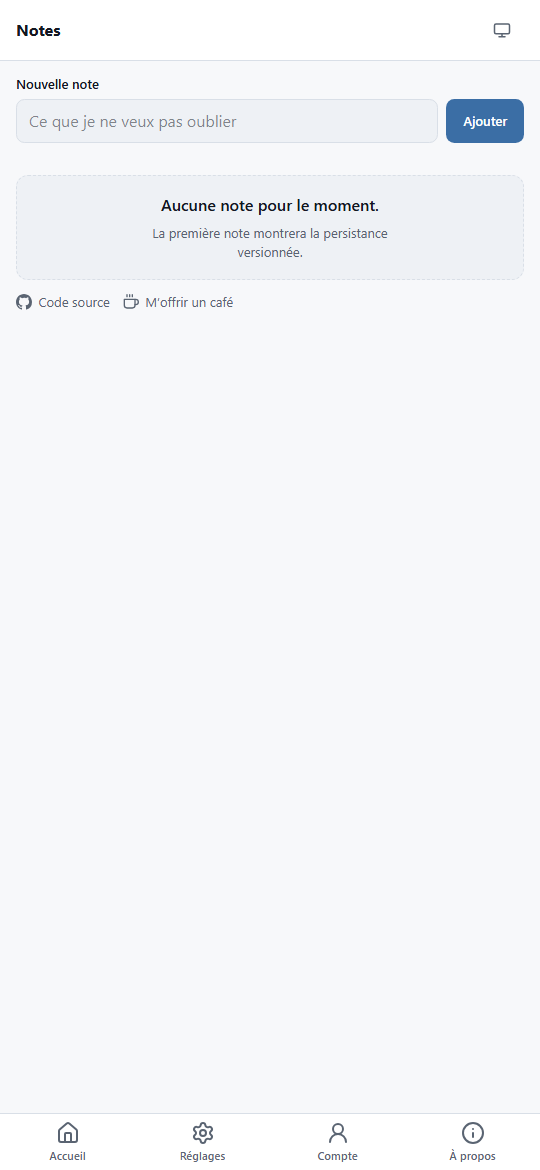
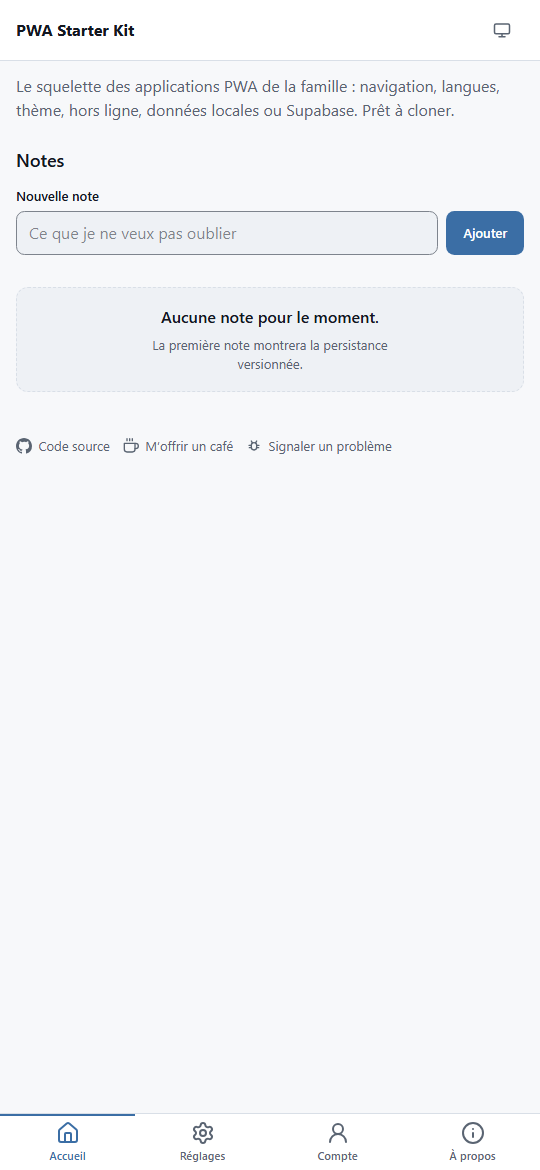
fix: ce que le squelette promettait sans le faire (Sentry, thème au démarrage, base du worker, toasts) (#122)
* fix(observabilite): Sentry part enfin, dans un morceau à part

initSentry était appelé sans `loader`, et @sentry/react n'était pas déclaré. Le socle
importe alors le SDK par un nom que Vite ne peut pas lire : dans le navigateur
l'import échoue, l'échec est avalé, et rien ne part, DSN posé ou non. Le déploiement,
la CSP et l'écran Réglages annonçaient pourtant un Sentry en service, et l'ADR 0006
promettait le relais « sans changer une ligne ».

- @sentry/react ^11.10.0, la version du parc (verrou seul, 8 paquets ajoutés).
- `loader: () => import('@sentry/react')` dans main.tsx.
- Les trois gestes promus par le socle dans vite.config.ts : nom fixe
  (sentryChunkFileNames), hors des préchargements (withoutSentryPreload), React
  dans son propre morceau (sentryChunkGroups), sinon il part dans sentry.js, que le
  précache exclut, et l'app ne démarre plus hors ligne.
- Bornes de poids reposées à +10 % du relevé : 418,9 / 169,1 / 497 →
  461 / 187 / 547. Le total compte désormais le SDK (146,8 kB, chargé seulement
  avec un DSN) ; le préchargé ne prend que 0,9 kB (React et le runtime à part).
- L'ADR 0006 dit la rectification.

Éprouvé au navigateur avec un DSN de test : sentry.js chargé, une erreur part en
enveloppe vers l'hôte du DSN sans refus de la CSP ; serveur coupé, l'app démarre
depuis le précache et Sentry ne se charge simplement pas.

* fix(theme): le script anti-flash qu'index.html disait posé
[…]

diff --git a/vite.config.ts b/vite.config.ts
@@ -3,7 +3,12 @@ import { VitePWA } from 'vite-plugin-pwa';
 import react from '@vitejs/plugin-react';
 import tailwindcss from '@tailwindcss/vite';
 import { visualizer } from 'rollup-plugin-visualizer';
-import { pwaBaseOptions } from '@mister-guiiug/dev-pwa-config/vite-pwa';
+import {
+  pwaBaseOptions,
+  sentryChunkFileNames,
+  sentryChunkGroups,
+  withoutSentryPreload,
+} from '@mister-guiiug/dev-pwa-config/vite-pwa';
 import {
   pwaSeoPlugin,
   spaFallbackPlugin,
@@ -49,7 +54,23 @@ export default defineConfig(({ command }) => {
     // `strictPort` : un port pris fait échouer le démarrage, au lieu de glisser
     // en silence vers un autre que `.claude/launch.json` ne connaît pas.
     server: { port: devPortOf(APP_ID, 5240), strictPort: true },
-    build: { sourcemap: true },
+    // LE MORCEAU SENTRY, À PART : les trois gestes que le socle a promus de
+    // dix-huit apps (`vite-pwa.js`, « LE MORCEAU SENTRY »). Un nom fixe, pour
+    // qu'une coquille précachée ne demande pas une URL qu'un déploiement a
+    // supprimée ; hors des préchargements de l'entrée ; et React rangé dans
+    // son propre morceau, sinon il part dans `sentry.js`, que le précache
+    // exclut, et l'app ne démarre plus hors ligne (constaté sur trois apps le
+    // 05/11/2026). Le précache, lui, l'écarte déjà par `pwaBaseOptions`.
+    build: {
+      sourcemap: true,
+      modulePreload: { resolveDependencies: withoutSentryPreload },
+      rolldownOptions: {
+        output: {
+          codeSplitting: { groups: sentryChunkGroups() },
+          chunkFileNames: sentryChunkFileNames,
+        },
+      },
+    },
     plugins: [
       react(),
       tailwindcss(),
@@ -63,6 +84,11 @@ export default defineConfig(({ command }) => {
         siteName: 'PWA Starter Kit',
         logoPath: '/icons/icon-512.png',
         themeColor: { light: '#f7f8fa', dark: '#0f1115' },
+        // Le script qui applique le thème AVANT le premier rendu, avec la clé
+        // de `ThemeProvider` (`dwc_theme`). Sans lui, `index.html` le disait
+        // posé et il ne l'était pas : un visiteur en sombre voyait un flash
+        // clair à chaque démarrage à froid, le temps que React charge.
+        themeBoot: true,
       }),
 
       // `frame-ancestors` est volontairement absent : la spécification
@@ -104,6 +130,11 @@ export default defineConfig(({ command }) => {
       VitePWA(
         pwaBaseOptions({
           id: APP_ID,
+          // La base RÉELLE du build. Sans elle, le socle la déduit de `id`
+          // (`/pwa-starter-kit/`) : juste en production, faux pour les builds
+          // e2e et Lighthouse servis à la racine, dont la portée, le
+          // `start_url` et le repli de navigation visaient un chemin absent.
+          basePath,
           name: 'PWA Starter Kit',
           shortName: 'Starter Kit',
           description:

diff --git a/src/index.css b/src/index.css
@@ -98,20 +98,10 @@ body {
  * colle la barre, `<PageContainer reserve="bottom-nav">` dégage la place
  * dessous, zone sûre iOS comprise. Ce fichier n'a plus rien à dire sur elle.
  *
- * SAUF CECI, ET C'EST UNE COLLISION DU SOCLE. La zone de notification
- * (`toast-viewport`) est collée en `bottom: 0` avec un `z-index` de 70, la
- * barre basse fixe au même endroit avec 20 : une notification recouvre la
- * navigation, exactement comme le bandeau de mise à jour passait SOUS elle
- * chez mister-miss-koh. Ici on la remonte de la hauteur réservée par
- * `reserve="bottom-nav"` — la même valeur, au même endroit. Le jour où le
- * socle saura placer sa zone au-dessus d'une barre déclarée, ces quatre
- * lignes disparaissent.
- *
- * Non layered : ce fichier gagne de plein droit sur `@layer components`.
+ * LA ZONE DES NOTIFICATIONS NON PLUS. Cette feuille la remontait de la hauteur
+ * de la barre, « le jour où le socle saura la placer » en attendant. Il le
+ * savait depuis le 06/09/2026 (dev-pwa-config#216) : `toast-viewport` prend
+ * `bottom: var(--_dwc-bottom-clearance)` dès qu'une barre est collée. Les deux
+ * s'additionnaient, et le toast « Annuler » flottait 103 px au-dessus de la
+ * barre, mesuré en 375 × 812 le 06/11/2026. La règle est retirée.
  */
-[data-dwc='toast-viewport'] {
-  padding-bottom: calc(
-    4.5rem + var(--spacing-fluid-sm, 0.75rem) +
-      max(env(safe-area-inset-bottom), 0px)
-  );
-}

diff --git a/src/main.tsx b/src/main.tsx
@@ -35,6 +35,14 @@ installErrorReporter();
 void initSentry({
   dsn: env.VITE_SENTRY_DSN,
   environment: import.meta.env.MODE,
+  // LE `loader` N'EST PAS FACULTATIF. Sans lui, le socle importe Sentry par
+  // un nom que Vite ne peut pas lire (pour qu'une app sans le SDK construise
+  // quand même) : dans le navigateur l'import échoue, `initSentry` avale
+  // l'échec, et rien ne part, DSN posé ou non. C'était le cas ici jusqu'au
+  // 06/11/2026, alors que la CSP, le déploiement et l'écran Réglages
+  // annonçaient un Sentry en service. Le morceau qu'il charge est rangé à
+  // part par `vite.config.ts` ; sans DSN, rien n'est téléchargé.
+  loader: () => import('@sentry/react'),
 });
 
 const container = document.getElementById('app');

diff --git a/README.md b/README.md
@@ -203,15 +203,18 @@ C'est la seule différence qui compte.
 la met à votre nom :
 
 ```bash
-npx github:mister-guiiug/create-lg-pwa-app miss-exemple --publish
+npx --allow-git=root github:mister-guiiug/create-lg-pwa-app miss-exemple --publish
 ```
 
-**Sans `--from`, il ne part pas de ce que décrit ce README**, mais de la
-dernière étiquette du squelette : `v1.2.0`, posée le 06/09/2026, soixante-six
-commits derrière `main` au 28/09. Elle est sur le socle 4 et ses workflows
-`@v4`, n'a ni l'annulation des suppressions, ni la suppression de compte, ni la
-file hors ligne, ni la mesure d'audience, et rend encore le pied de page dans
-la coquille. `--from main` part de la pointe.
+`--allow-git=root` se place AVANT le paquet : depuis npm 12, `allow-git` vaut
+`none` par défaut et `npx github:` échoue en `EALLOWGIT` ; `root` n'ouvre que
+le générateur.
+
+**Sans `--from`, il ne part pas de ce que décrit ce README**, mais de la plus
+haute étiquette du squelette (create-lg-pwa-app#26), qui peut avoir des
+semaines de retard sur `main` : `git tag --sort=-v:refname | head -1` la donne.
+`--from main` part de la pointe. Ce paragraphe ne cite plus de numéro : il
+annonçait `v1.2.0` alors que le générateur tirait déjà `v1.3.0`.
 
 [`create-lg-pwa-app`](https://github.com/mister-guiiug/create-lg-pwa-app)
 substitue l'identifiant, le nom affiché et le nom court « Starter Kit », qui

diff --git a/docs/adr/0006-observabilite.md b/docs/adr/0006-observabilite.md
@@ -30,6 +30,17 @@ Le bundle d'une application sans observabilité reste intact — c'est vérifiab
 au budget de poids. Une application qui pose son DSN gagne le relais sans
 changer une ligne de code.
 
+**Rectifié le 06/11/2026 : cette promesse ne tenait pas.** `initSentry` était
+appelé sans `loader`, et `@sentry/react` n'était pas déclaré. Le socle importe
+alors le SDK par un nom que Vite ne peut pas lire ; dans le navigateur l'import
+échoue, l'échec est avalé, et rien ne part, DSN posé ou non. Le déploiement, la
+CSP et l'écran Réglages annonçaient pourtant un Sentry en service. Le squelette
+passe désormais `loader: () => import('@sentry/react')` et range le SDK dans un
+morceau à part (`vite.config.ts`) : sans DSN, rien n'est téléchargé ; avec, le
+morceau arrive après le premier rendu, hors du précache. Le budget `totalGzipKb`
+le compte, puisqu'il est émis ; `preloadGzipKb`, qui mesure ce que télécharge
+le premier affichage, ne bouge pas.
+
 Le journal local garde les cinquante dernières erreurs dans `localStorage`,
 piles comprises. **Tout script exécuté sur l'origine peut les lire** : n'y
 placer aucun contexte sensible. C'est écrit dans la politique de sécurité du
